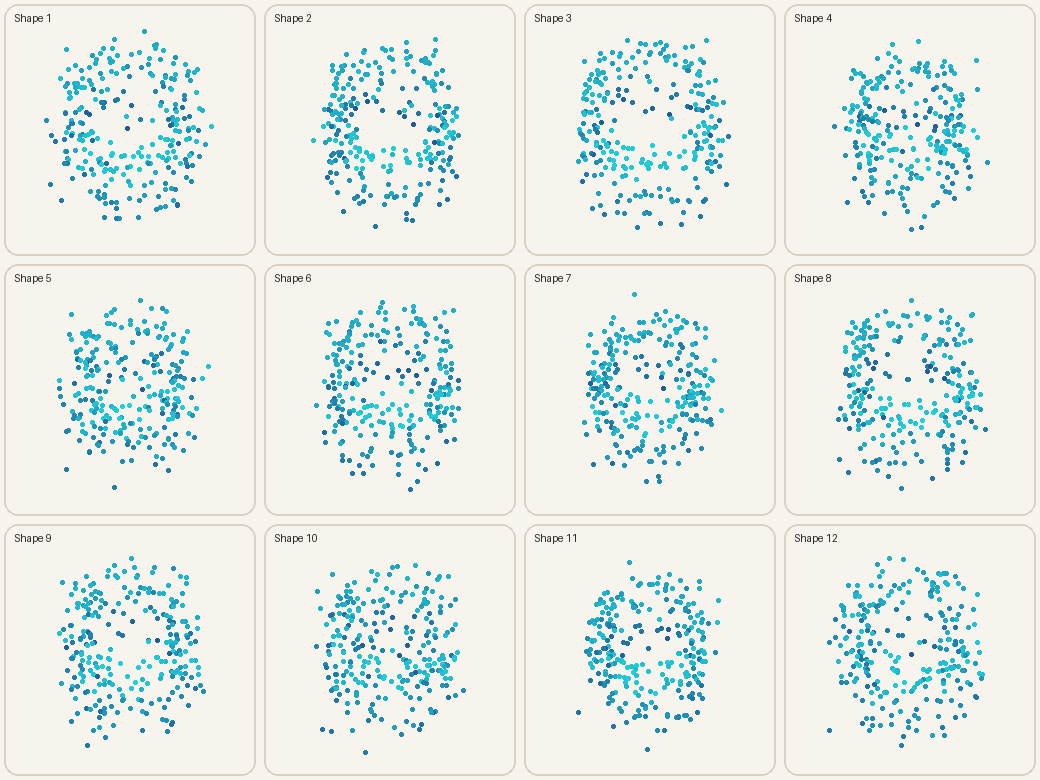
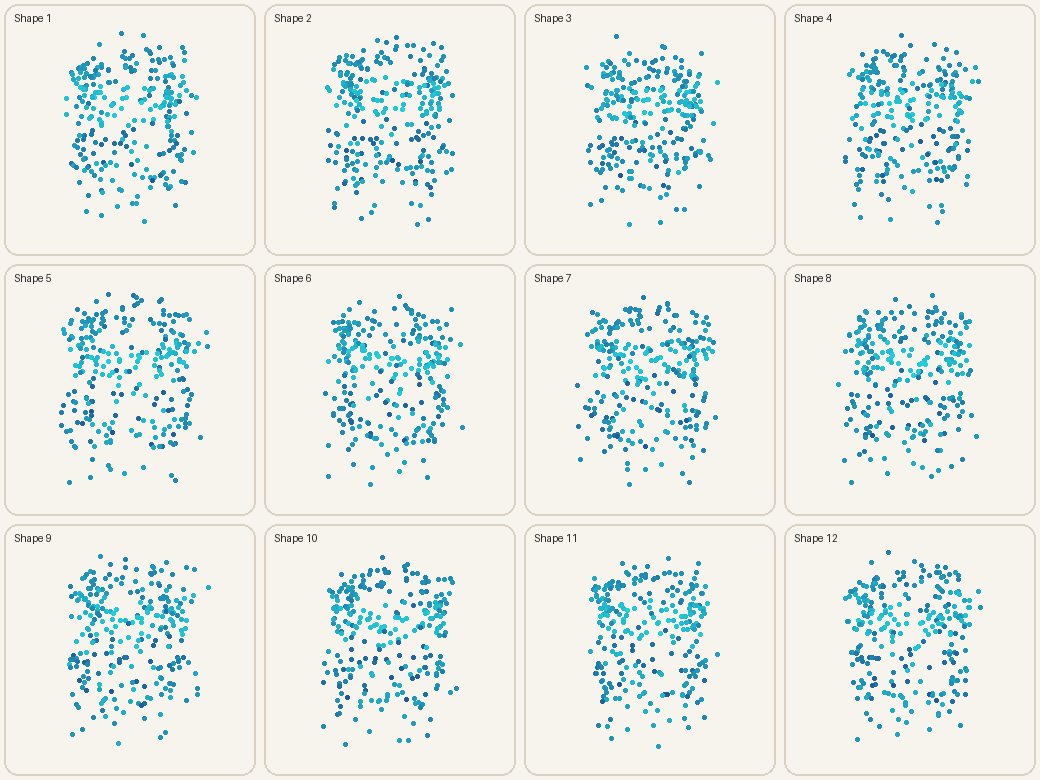
docs: publish methods results figures and research writeup

diff --git a/src/stoolgen/visualization.py b/src/stoolgen/visualization.py
@@ -11,7 +11,9 @@ from PIL import Image, ImageDraw, ImageFont
 def render_cloud(points: np.ndarray, size: int = 320, title: str = "") -> Image.Image:
     """Render an isometric point-cloud view with a simple depth cue."""
     points = np.asarray(points)
-    azimuth, elevation = np.deg2rad(38), np.deg2rad(24)
+    # A steep elevation makes the vertical stool structure legible while the
+    # azimuth still separates its four legs in projection.
+    azimuth, elevation = np.deg2rad(38), np.deg2rad(62)
     rz = np.array([[np.cos(azimuth), -np.sin(azimuth), 0],
                    [np.sin(azimuth), np.cos(azimuth), 0], [0, 0, 1]])
     rx = np.array([[1, 0, 0], [0, np.cos(elevation), -np.sin(elevation)],
@@ -73,4 +75,3 @@ def loss_plot(history: list[dict], path: str | Path, size: tuple[int, int] = (80
     destination.parent.mkdir(parents=True, exist_ok=True)
     image.save(destination)
     return destination
-

diff --git a/README.md b/README.md
@@ -1,2 +1,102 @@
-# BVC_3D-Shapes
-Procedural 3D shape generation using a neural network to learn the structure and geometric features of different 3D objects, with a focus on generating new shapes and exploring variations between them
+# Learning Procedural 3D Stools as Point Clouds
+
+A complete Brown Visual Computing starter project that creates a controlled dataset of
+procedural stools, learns an unordered point-cloud representation, and generates novel
+geometry with a compact variational autoencoder (VAE).
+
+![Procedural training examples](figures/training_samples.png)
+
+## Why this project is distinct
+
+This repository does **not** reproduce the reference SDF implementation. It uses a new
+object niche (multi-part stools), explicit surface point sampling, a shared PointNet-style
+encoder, and a direct point-set decoder. One network generalizes across every shape; there
+is no learned embedding table with one code per training object. Saved procedural parameters
+are used only for analysis, never as model inputs.
+
+## Research questions
+
+1. Can a point-cloud autoencoder reconstruct a procedurally varied, multi-part object family?
+2. What reconstruction cost comes from regularizing the representation into a sampleable VAE?
+3. Do latent interpolations remain smooth, and are procedural factors linearly readable?
+
+## Pipeline
+
+```text
+interpretable parameters → procedural parts → normalized point cloud
+                                              ↓
+                            PointNet encoder → latent code
+                                              ↓
+                               point decoder → reconstruction / new sample
+```
+
+Each stool varies in seat width, depth, thickness, height, leg radius and spread, seat
+style, and stretcher presence. The dataset includes points, part labels, parameters,
+parameter names, and its seed.
+
+## Quick start
+
+Python 3.10+ is required. PyTorch runs on CPU, Apple Silicon (MPS), or CUDA.
+
+```bash
+python3 -m pip install -e ".[dev]"
+python3 -m stoolgen generate --config configs/quick.yaml
+python3 -m stoolgen train --config configs/quick.yaml --model ae
+python3 -m stoolgen train --config configs/quick.yaml --model vae
+python3 -m stoolgen evaluate --config configs/quick.yaml --model vae
+python3 -m pytest
+```
+
+Use `python3 -m stoolgen demo` for a single smoke-to-results command. For a serious run,
+replace `configs/quick.yaml` with `configs/full.yaml`. Checkpoints and histories go under
+`runs/`; dataset archives go under `data/`. Both are excluded from Git.
+
+## Baseline results
+
+The committed CPU experiment uses 160 shapes, 256 points, eight epochs, and seed 7. It
+verifies the pipeline rather than claiming state-of-the-art quality.
+
+| Model | Test Chamfer ↓ | Latent factor probe R² ↑ |
+|---|---:|---:|
+| Autoencoder | 0.0632 ± 0.0175 | 0.345 |
+| VAE | 0.0784 ± 0.0237 | 0.360 |
+
+All 24 sampled VAE clouds passed the basic non-collapse extent check. The AE reconstructs
+better, while the VAE trades fidelity for a regularized, sampleable latent space. See
+[the full writeup](docs/WRITEUP.md) for interpretation and limitations.
+
+| Reconstructions | VAE samples |
+|---|---|
+| ![Input and reconstruction pairs](figures/reconstructions.png) | ![Generated shapes](figures/generated_samples.png) |
+
+### Latent-space behavior
+
+![Interpolation between encoded stools](figures/interpolation.png)
+
+![Traversal through the highest-variance latent coordinate](figures/latent_traversal.png)
+
+## Repository map
+
+```text
+configs/                 quick and full reproducible experiments
+src/stoolgen/geometry.py procedural part-based geometry
+src/stoolgen/data.py     archive creation, validation, splits, augmentation
+src/stoolgen/models/     PointNet encoder, AE, VAE, point decoder
+src/stoolgen/training.py shared training and checkpointing
+src/stoolgen/evaluation.py metrics, interpolation, latent traversal
+src/stoolgen/visualization.py dependency-light point rendering
+tests/                   geometry, data, model, loss, and rendering tests
+docs/                    method details, writeup, and research log
+figures/                 committed representative results
+```
+
+## Reproducibility and responsible interpretation
+
+Seeds, data sizes, model dimensions, optimizer settings, and evaluation counts live in YAML.
+The best validation checkpoint is selected automatically. The held-out linear ridge probe is
+descriptive, not evidence of causal disentanglement. Generated validity is a smoke metric,
+not mesh-level proof.
+
+## License
+
+MIT. The implementation is original and designed around the project framing above.

diff --git a/docs/WRITEUP.md b/docs/WRITEUP.md
@@ -1,0 +1,86 @@
+# Learning a Generative Representation of Procedural 3D Stools
+
+## Abstract
+
+This project studies whether a compact neural model can learn the distribution of a
+procedurally generated family of multi-part 3D stools. I built an original parameterized
+surface sampler, represented each object as a normalized point cloud, and compared a
+PointNet-style deterministic autoencoder with a variational autoencoder. A small reproducible
+CPU experiment demonstrates working reconstruction, sampling, interpolation, and latent
+analysis. The deterministic model achieves lower Chamfer error, while VAE regularization
+produces a sampleable space at a measurable reconstruction cost.
+
+## Motivation
+
+Procedural programs expose meaningful controls but require the original rules to create a new
+object. Generative models instead attempt to learn the distribution from examples. Stools are
+a useful test category: they share clear semantic structure, while continuous proportions and
+discrete seat/support choices create visible variation and multi-part topology.
+
+## Experimental setup
+
+The smoke experiment uses 160 stools with 256 surface points each, an 80/10/10 split, a
+16-dimensional latent code, hidden width 96, batch size 16, and eight Adam epochs. Both models
+use the same encoder/decoder capacity and symmetric squared Chamfer objective. The VAE uses
+`beta = 0.0005`. All committed results use seed 7.
+
+## Results
+
+Random training examples show the intended distribution includes tall and short stools,
+different seat footprints, square and round seats, varying legs, and optional supports.
+
+![Random procedural training shapes](../figures/training_samples.png)
+
+The deterministic baseline obtains test Chamfer **0.0632 ± 0.0175**, compared with
+**0.0784 ± 0.0237** for the VAE. This expected gap reflects the cost of constraining latent
+codes toward a common Gaussian prior. Training curves show both models improve rapidly in the
+small run without numerical instability.
+
+![Autoencoder loss](../figures/ae_loss.png)
+
+![VAE loss](../figures/vae_loss.png)
+
+Input/reconstruction pairs retain the broad seat-and-leg arrangement, although thin structures
+remain challenging at only 256 output points.
+
+![Held-out input and reconstruction pairs](../figures/reconstructions.png)
+
+Random prior samples are spatially non-collapsed: all 24 tested outputs have nontrivial extent
+along every axis. This check is intentionally weak; visual inspection shows that an eight-epoch
+model learns a coarse family rather than crisp final geometry.
+
+![Random VAE samples](../figures/generated_samples.png)
+
+Linear interpolation between two encoded test objects changes coordinates continuously and
+does not exhibit abrupt cloud collapse. Traversing the most variable coordinate provides a
+second controlled view of model sensitivity.
+
+![Latent interpolation](../figures/interpolation.png)
+
+![Latent traversal](../figures/latent_traversal.png)
+
+The held-out latent-to-parameter ridge probe reaches R² **0.345** for the AE and **0.360** for
+the VAE, suggesting that some procedural information remains linearly accessible. This does
+not establish independent or causal latent factors.
+
+## Limitations
+
+The committed experiment is deliberately small and should be treated as an end-to-end proof,
+not a converged comparison. Chamfer distance can reward average-looking point sets and does not
+ensure part connectivity. Fixed part sampling is not uniform over surface area. The validity
+metric detects collapse but cannot verify four legs, stable contact, or watertightness. Finally,
+only one seed is reported.
+
+## Next experiments
+
+The strongest follow-up is a multi-seed latent-dimension study using `configs/full.yaml`, with
+confidence intervals and structural validity checks derived from part segmentation. A
+conditional VAE could receive known procedural factors and test controllable generation. An
+atlas- or folding-based decoder may preserve thin legs better than the fully connected decoder.
+
+## Conclusion
+
+The project establishes an original and reproducible procedural-to-learned 3D pipeline. It
+also demonstrates a central tradeoff: the deterministic representation reconstructs held-out
+examples more accurately, whereas the VAE enables prior sampling and smooth latent experiments.
+The gap between coarse validity and structural correctness is the most useful next direction.

diff --git a/docs/METHOD.md b/docs/METHOD.md
@@ -1,0 +1,37 @@
+# Method
+
+## Geometry and dataset
+
+A stool is assembled from independently sampled but constrained parameters. Seats are box
+or elliptical-cylinder surfaces. Four cylindrical legs attach below the seat, and a subset
+of shapes contains two cylindrical stretchers. Fixed part sampling ratios allocate 35% of
+points to the seat, 55% to legs, and 10% to supports. Unused support samples return to the
+seat. Every cloud is centered vertically and normalized by total object height.
+
+Direct surface sampling keeps installation lightweight and every dataset build deterministic.
+Its limitation is that point density is controlled by part ratios, not exact surface area.
+
+## Representation
+
+An input is an unordered `N × 3` set. A shared multilayer perceptron, implemented as 1×1
+convolutions, maps points into features. Symmetric max pooling creates a permutation-invariant
+global descriptor. The decoder maps that descriptor into `N × 3` coordinates. Chamfer
+distance makes training insensitive to point order.
+
+The autoencoder maps directly to `z`. The VAE predicts `mu` and `log(var)`, samples through
+the reparameterization trick, and adds beta-weighted KL divergence:
+
+```text
+loss = symmetric squared Chamfer(reconstruction, input) + beta * KL(q(z|x) || N(0,I))
+```
+
+## Evaluation
+
+- **Reconstruction:** per-shape Chamfer distance on the held-out test split.
+- **Generation smoke check:** fraction of samples with nontrivial extent on all axes.
+- **Latent probe:** ridge regression fitted on 70% of encoded examples and scored on 30%.
+- **Qualitative:** training examples, reconstructions, prior samples, interpolation, traversal.
+
+The probe is a readability diagnostic, not evidence of disentanglement. Procedural metadata
+is returned for analysis but never consumed by either model. Evaluation never updates weights.
+

diff --git a/docs/RESEARCH_LOG.md b/docs/RESEARCH_LOG.md
@@ -1,0 +1,22 @@
+# Research Log
+
+## Experiment 1 — End-to-end smoke run
+
+- **Hypothesis:** A small PointNet autoencoder can learn the coarse stool family on CPU.
+- **Configuration:** 160 shapes, 256 points, latent 16, hidden 96, 8 epochs, seed 7.
+- **Result:** AE test Chamfer 0.0632; loss decreased throughout the run.
+- **Observation:** Broad structure reconstructs, while thin legs remain less crisp.
+
+## Experiment 2 — Variational representation
+
+- **Hypothesis:** KL regularization worsens reconstruction but enables prior samples.
+- **Result:** VAE Chamfer 0.0784; 24/24 samples passed the extent smoke check.
+- **Observation:** The expected fidelity/sampleability tradeoff is visible.
+
+## Experiment 3 — Latent diagnostics
+
+- **Method:** Held-out ridge probe, endpoint interpolation, and variance traversal.
+- **Result:** Probe R² is 0.345 (AE) and 0.360 (VAE); transitions remain non-collapsed.
+- **Correction:** An initial underdetermined in-sample probe misleadingly reported 1.0. The
+  final probe uses the full archive with a regularized 70/30 held-out split.
+
